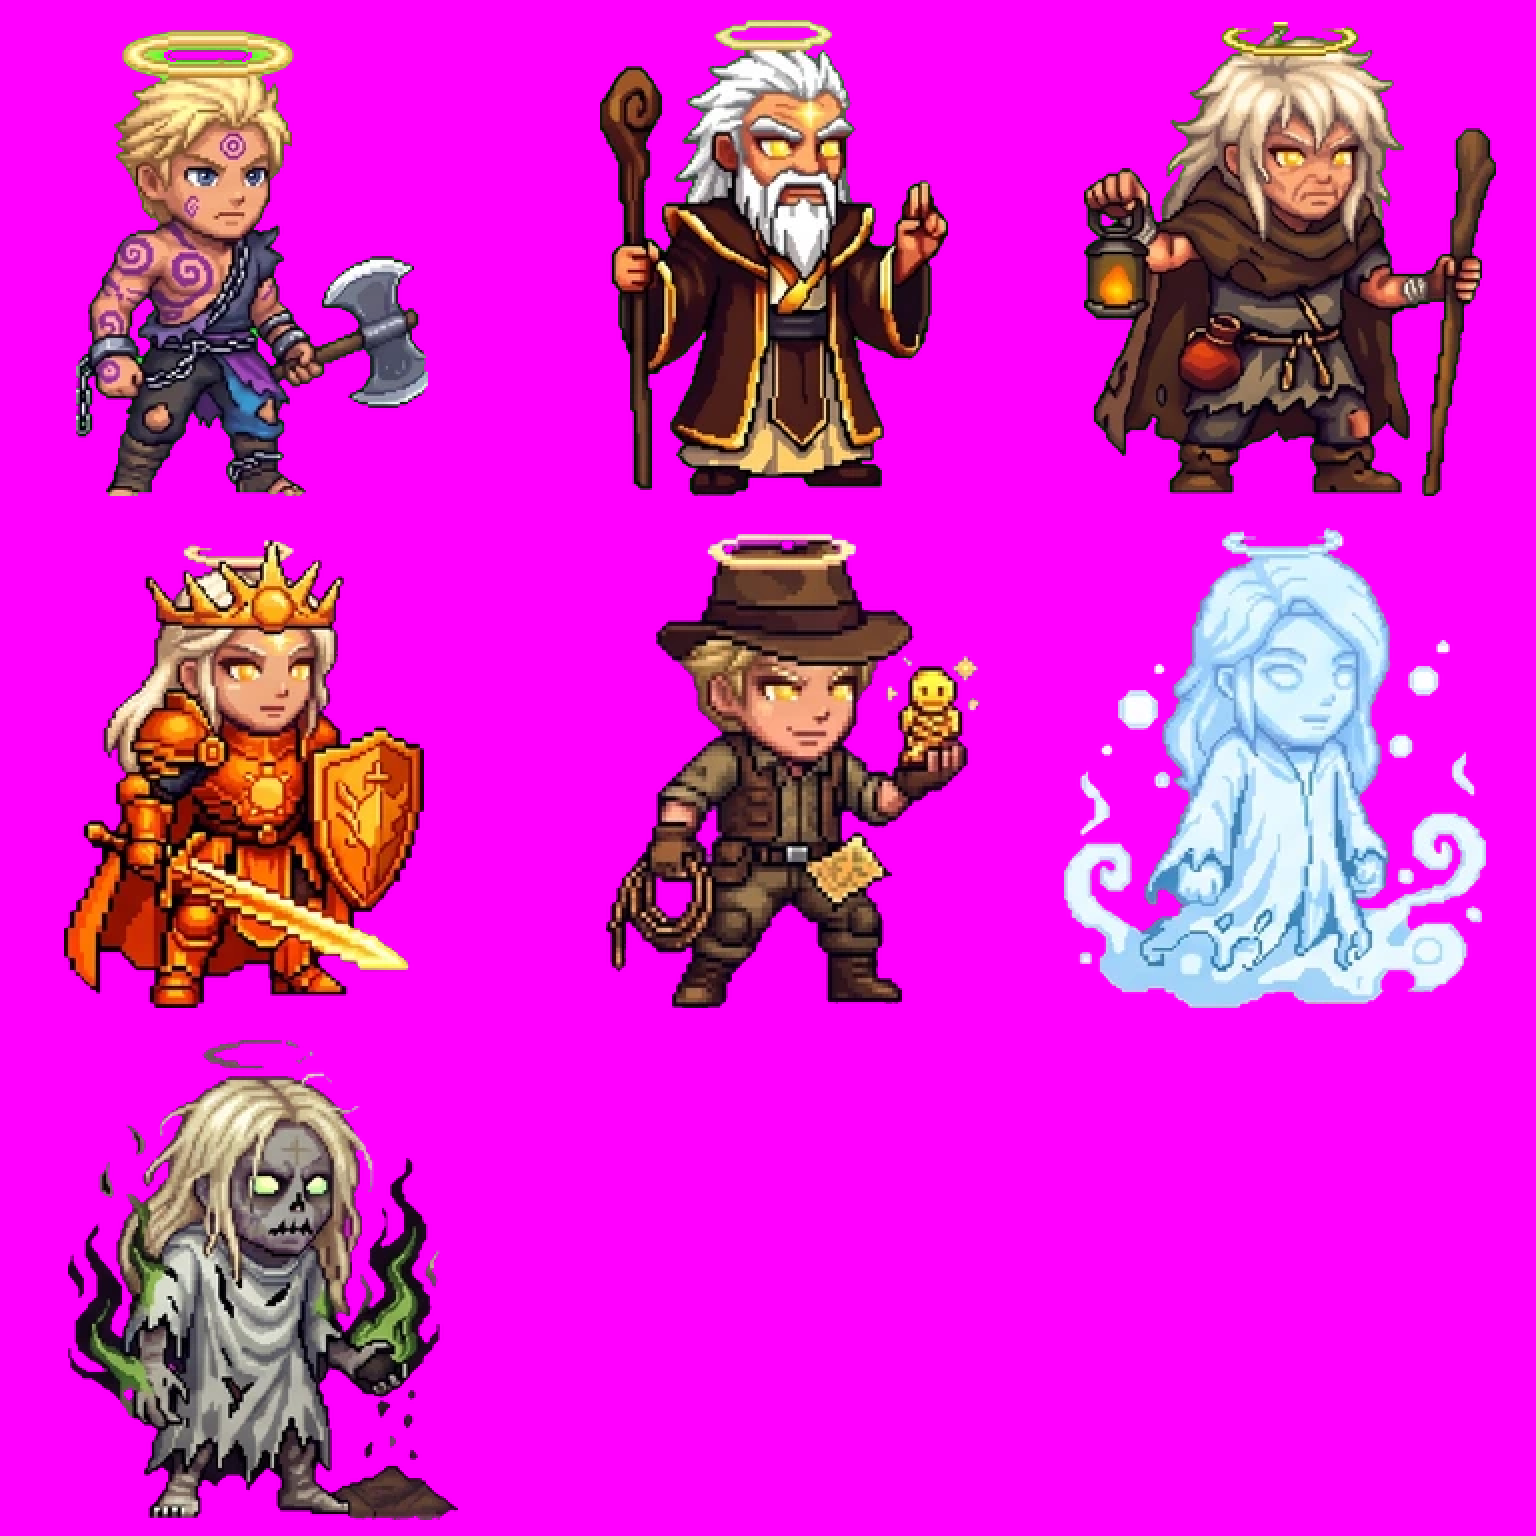
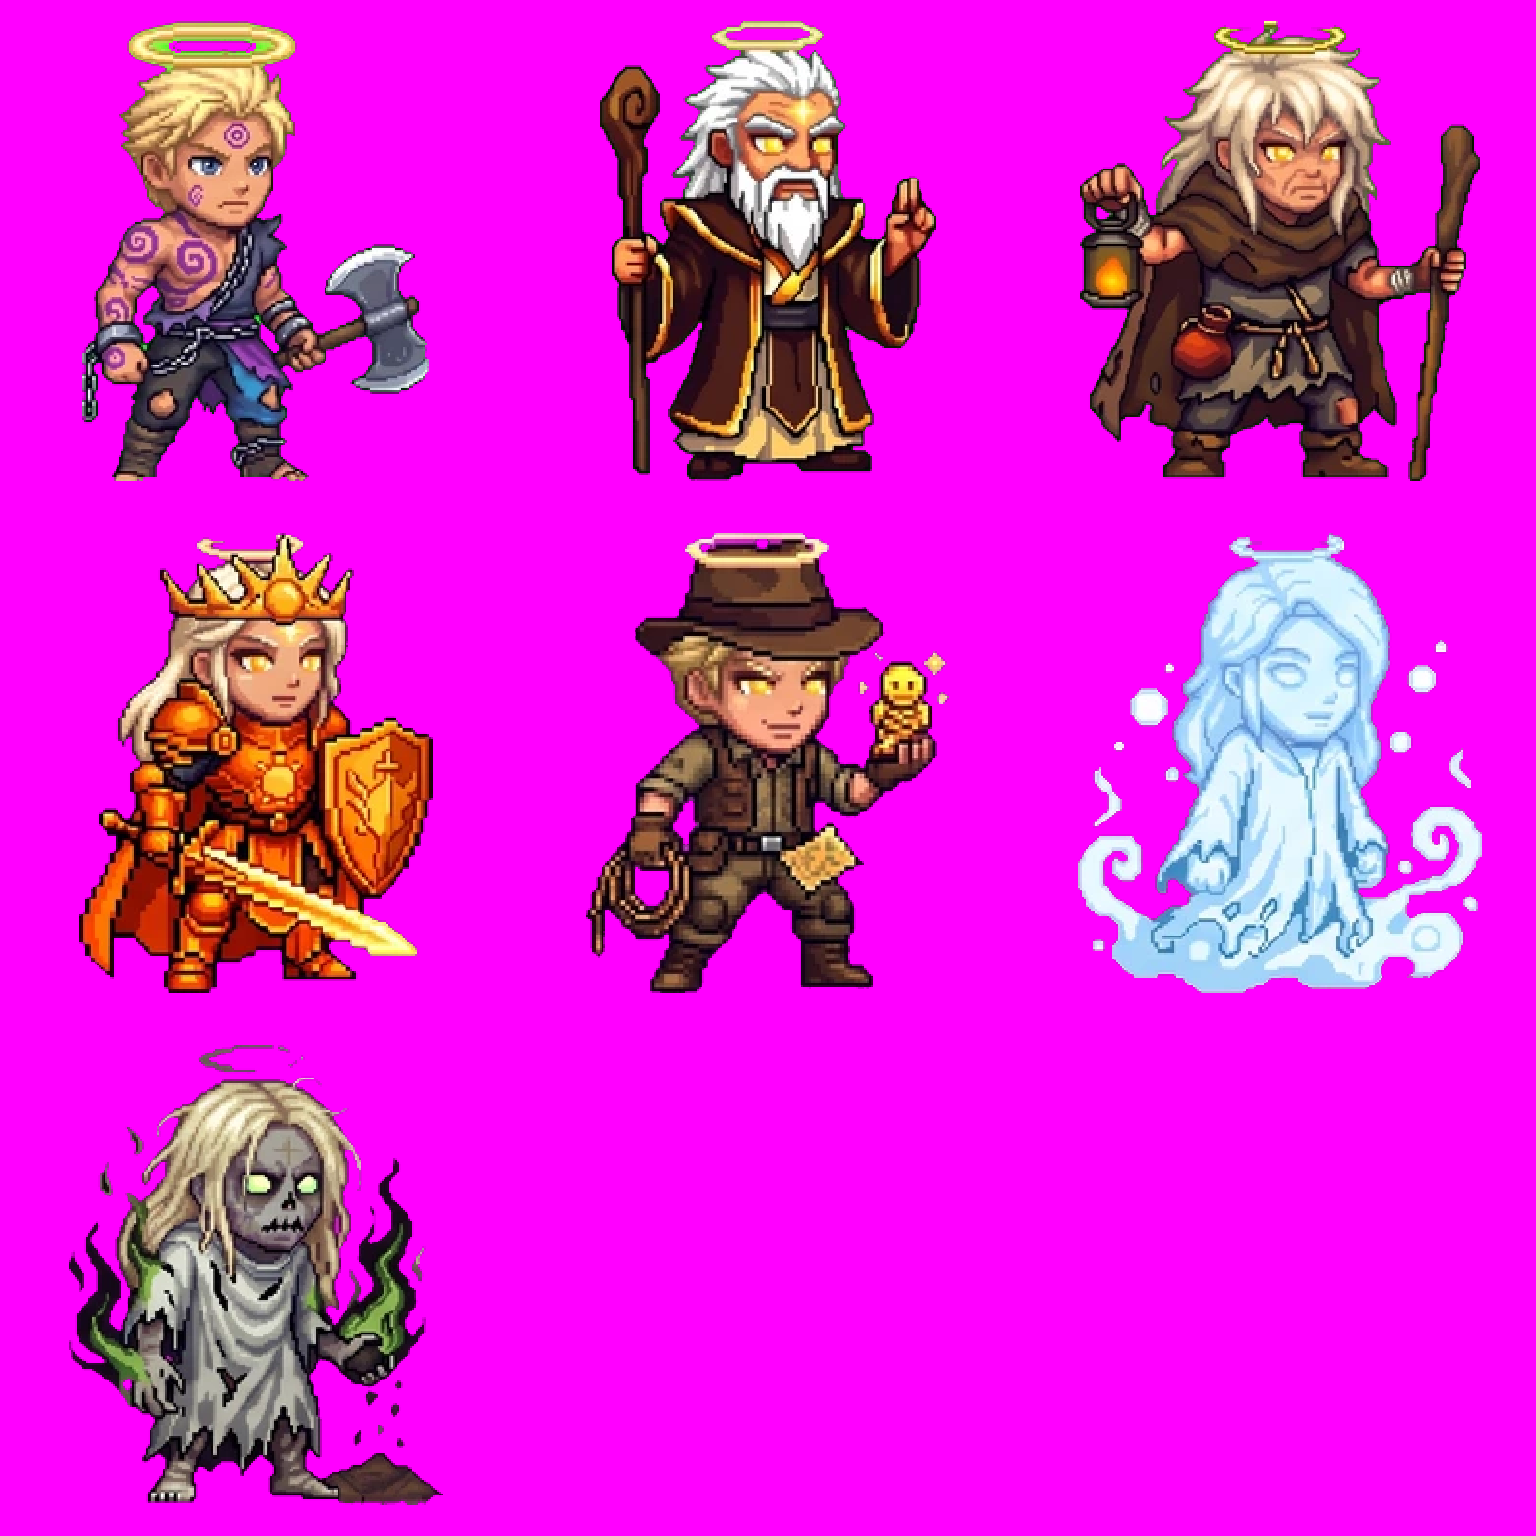
Hale düzeltme paketi: alfa sınır kutusuna göre ölçekli yerleşim, kenar doğrulaması
Claude-Session: https://claude.ai/code/session_01VVQfWxKYsxTev9oJZSnSPj

Changed region(s): [[0.0312, 0.0, 0.3125, 1.0], [0.6875, 0.0, 1.0, 0.6562], [0.375, 0.0, 0.6562, 0.6562]]

diff --git a/scripts/hale-gemini-duzeltme.py b/scripts/hale-gemini-duzeltme.py
@@ -2,10 +2,34 @@
 """Hale düzeltme paketi: eski 32 sayfalık setten (docs/sabah/hale-gemini-eslesme.csv) seçilen hücreler, kaynak hale-öncesi orijinaller (git),
 3×3, hücre 512×512, magenta zemin (v2 ile aynı); aynı sınıf aynı sayfaya düşmesin diye sınıf-major sırayla dağıtılır."""
 import csv, io, re, subprocess, collections
+import numpy as np
 from PIL import Image
 D = 'public/characters'
 SEL = {1: [4, 9], 11: [6], 14: [3, 5], 15: [1, 3, 8], 17: [1, 6], 21: [6, 8], 22: [1, 3, 4, 9], 26: [5, 6, 7, 8, 9], 27: [1, 2, 4, 5, 6], 28: [1, 2, 3, 7, 9], 32: list(range(1, 9))}
 NOT = {(1, 4): 'mavi gözler kalsın, alına yıldız eklensin', (1, 9): 'kırmızı aura tam olsun'}
+CELL, ALT, YAN, UST = 512, 0.06, 0.04, 0.04
+def bbox(img):
+    a = np.array(img)[..., 3] > 8; ys, xs = np.where(a)
+    return xs.min(), ys.min(), xs.max() + 1, ys.max() + 1
+def edge_touch(img):
+    """Kaynak dosyada karakter pikselleri kenara değiyor mu: {kenar: piksel} (boş: değmiyor)."""
+    a = np.array(img)[..., 3] > 8
+    d = {'üst': int(a[0].sum()), 'alt': int(a[-1].sum()), 'sol': int(a[:, 0].sum()), 'sağ': int(a[:, -1].sum())}
+    return {k: v for k, v in d.items() if v}
+def place(img, name):
+    """Alfa sınır kutusuna göre ölçekle: alt boşluk ≥ %6, yan ve üst ≥ %4; ayak çizgisi (alt kenar) bütün hücrelerde aynı satır."""
+    x0, y0, x1, y1 = bbox(img); w, h = x1 - x0, y1 - y0
+    base = round(CELL * (1 - ALT))
+    sc = min(CELL * (1 - 2 * YAN) / w, (base - CELL * UST) / h)
+    nw, nh = max(1, int(w * sc)), max(1, int(h * sc))
+    crop = img.crop((x0, y0, x1, y1)).resize((nw, nh), Image.NEAREST)
+    cell = Image.new('RGBA', (CELL, CELL), (0, 0, 0, 0))
+    px, py = (CELL - nw) // 2, base - nh
+    cell.paste(crop, (px, py), crop)
+    # doğrulama: hiçbir karakter pikseli kenara değmez, marjlar sağlanır
+    bx0, by0, bx1, by1 = bbox(cell)
+    assert by1 <= CELL - round(CELL * ALT) + 0 and bx0 >= CELL * YAN - 1 and bx1 <= CELL * (1 - YAN) + 1 and by0 >= CELL * UST - 1, f'marj: {name} {(bx0, by0, bx1, by1)}'
+    return cell
 def git_img(ref, name):
     r = subprocess.run(['git', 'show', f'{ref}:{D}/{name}.webp'], capture_output=True)
     return Image.open(io.BytesIO(r.stdout)).convert('RGBA') if r.returncode == 0 and r.stdout else None
@@ -25,8 +49,11 @@ for p, items in enumerate(pages):
     for c, r in enumerate(items):
         n = r['dosya'][:-5]; img = git_img(r['kaynak'][4:], n) if r['kaynak'].startswith('git:') else None; kaynak = r['kaynak']
         if img is None: img = Image.open(f'{D}/{n}.webp').convert('RGBA'); kaynak = 'mevcut'
-        big = img.resize((512, 512), Image.NEAREST); sheet.paste(big, ((c % 3) * 512, (c // 3) * 512), big)
-        out.append((f'{p + 1:02d}', c + 1, r['dosya'], r['sayfa'], r['hucre'], r['durum'], kaynak, NOT.get((int(r['sayfa']), int(r['hucre'])), '')))
+        kirpik = edge_touch(img)
+        assert not kirpik, f'kırpık kaynak: {n} {kirpik}'
+        big = place(img, n)
+        sheet.paste(big, ((c % 3) * 512, (c // 3) * 512), big)
+        out.append((f'{p + 1:02d}', c + 1, r['dosya'], r['sayfa'], r['hucre'], r['durum'], kaynak, (NOT.get((int(r['sayfa']), int(r['hucre'])), '') + '; ' if NOT.get((int(r['sayfa']), int(r['hucre'])), '') else '') + 'kaynak kenara değmiyor, ölçekli yerleşim (alt %6, yan/üst %4)'))
     sheet.save(f'docs/sabah/hale-gemini-duzeltme-sayfa-{p + 1:02d}.png')
 for r in allrows:
     if key(r) in BASTAN: out.append(('', '', r['dosya'], r['sayfa'], r['hucre'], 'baştan-warlock', r['kaynak'], 'baştan yapılacak, halka düzeltmesine girmez'))
